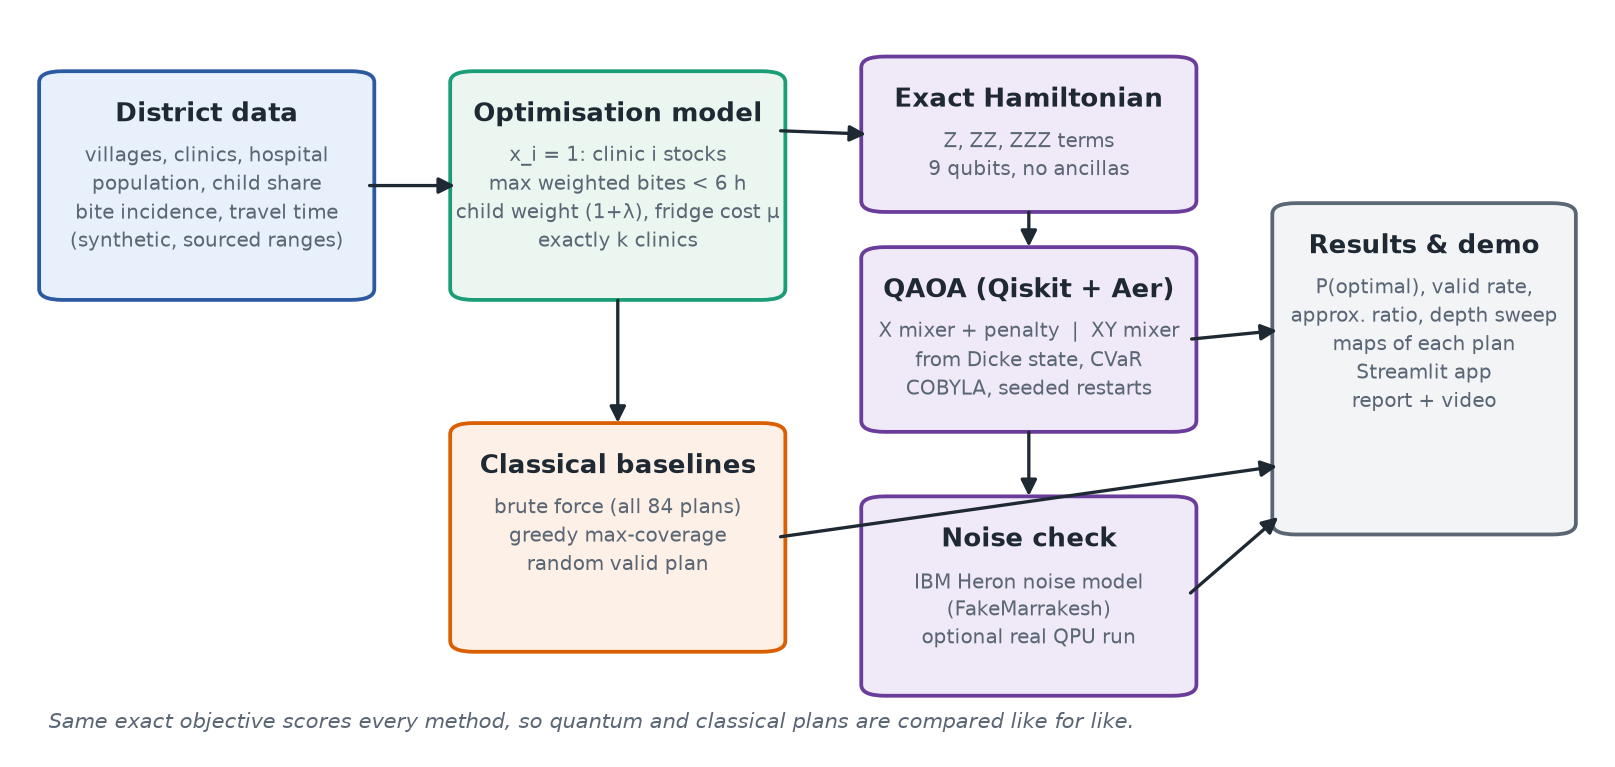
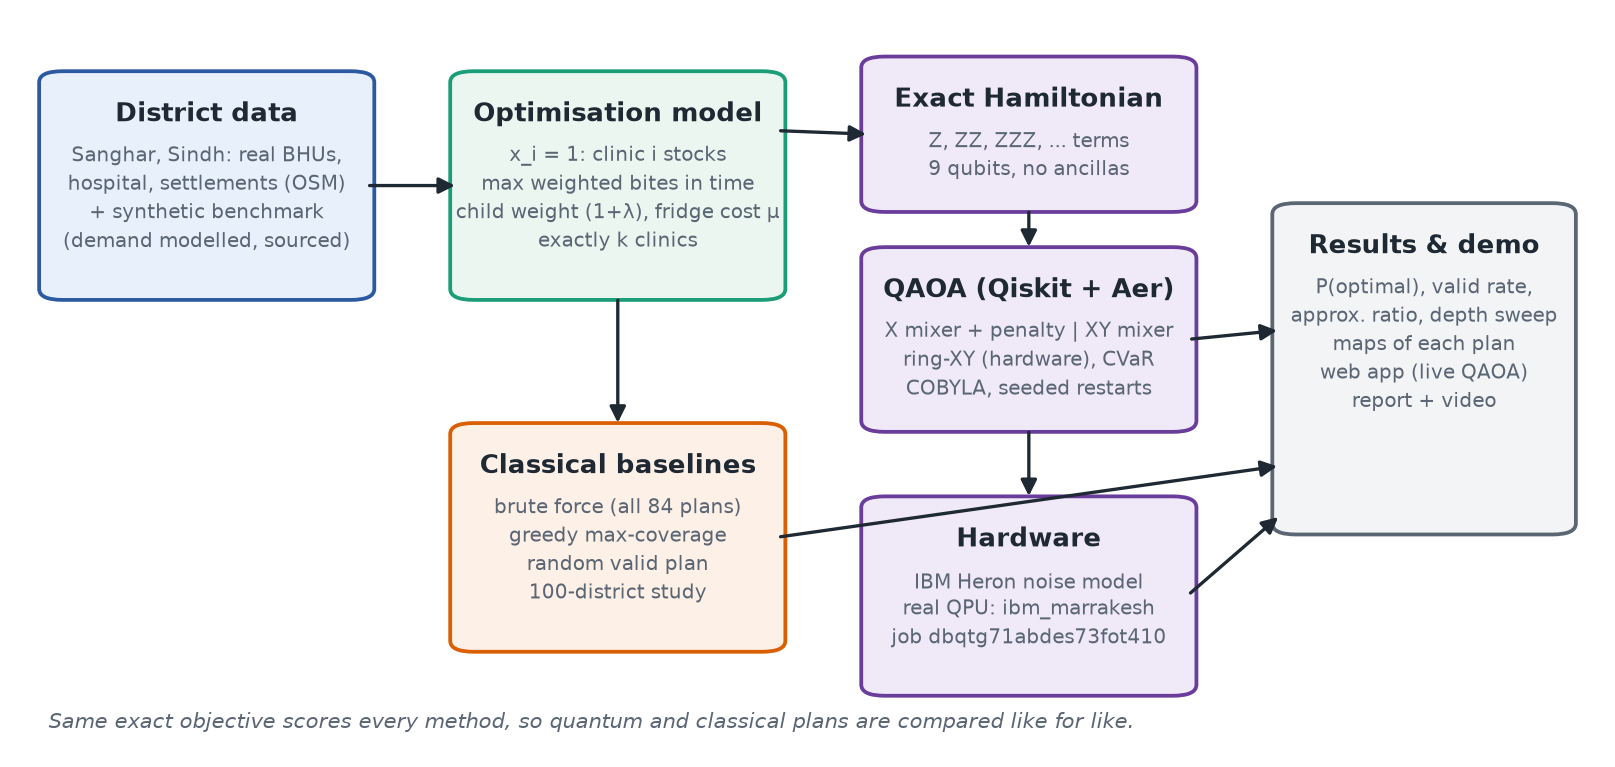
Docs: data sources for the real district, architecture diagram with real data and QPU

diff --git a/docs/make_architecture.py b/docs/make_architecture.py
@@ -9,13 +9,13 @@ FILL = {"data": "#e8f1fb", "model": "#eaf6ef", "quantum": "#efe9f8", "classical"
 EDGE = {"data": "#2c5aa0", "model": "#1b9e77", "quantum": "#6a3d9a", "classical": "#d95f02", "out": "#5b6675"}
 
 boxes = {
-    "data": (0.02, 0.62, 0.20, 0.30, "District data", "villages, clinics, hospital\npopulation, child share\nbite incidence, travel time\n(synthetic, sourced ranges)"),
-    "model": (0.28, 0.62, 0.20, 0.30, "Optimisation model", "x_i = 1: clinic i stocks\nmax weighted bites < 6 h\nchild weight (1+λ), fridge cost μ\nexactly k clinics"),
-    "ham": (0.54, 0.74, 0.20, 0.20, "Exact Hamiltonian", "Z, ZZ, ZZZ terms\n9 qubits, no ancillas"),
-    "qaoa": (0.54, 0.44, 0.20, 0.24, "QAOA (Qiskit + Aer)", "X mixer + penalty  |  XY mixer\nfrom Dicke state, CVaR\nCOBYLA, seeded restarts"),
-    "classical": (0.28, 0.14, 0.20, 0.30, "Classical baselines", "brute force (all 84 plans)\ngreedy max-coverage\nrandom valid plan"),
-    "noise": (0.54, 0.08, 0.20, 0.26, "Noise check", "IBM Heron noise model\n(FakeMarrakesh)\noptional real QPU run"),
-    "out": (0.80, 0.30, 0.18, 0.44, "Results & demo", "P(optimal), valid rate,\napprox. ratio, depth sweep\nmaps of each plan\nStreamlit app\nreport + video"),
+    "data": (0.02, 0.62, 0.20, 0.30, "District data", "Sanghar, Sindh: real BHUs,\nhospital, settlements (OSM)\n+ synthetic benchmark\n(demand modelled, sourced)"),
+    "model": (0.28, 0.62, 0.20, 0.30, "Optimisation model", "x_i = 1: clinic i stocks\nmax weighted bites in time\nchild weight (1+λ), fridge cost μ\nexactly k clinics"),
+    "ham": (0.54, 0.74, 0.20, 0.20, "Exact Hamiltonian", "Z, ZZ, ZZZ, ... terms\n9 qubits, no ancillas"),
+    "qaoa": (0.54, 0.44, 0.20, 0.24, "QAOA (Qiskit + Aer)", "X mixer + penalty | XY mixer\nring-XY (hardware), CVaR\nCOBYLA, seeded restarts"),
+    "classical": (0.28, 0.14, 0.20, 0.30, "Classical baselines", "brute force (all 84 plans)\ngreedy max-coverage\nrandom valid plan\n100-district study"),
+    "noise": (0.54, 0.08, 0.20, 0.26, "Hardware", "IBM Heron noise model\nreal QPU: ibm_marrakesh\njob dbqtg71abdes73fot410"),
+    "out": (0.80, 0.30, 0.18, 0.44, "Results & demo", "P(optimal), valid rate,\napprox. ratio, depth sweep\nmaps of each plan\nweb app (live QAOA)\nreport + video"),
 }
 kind = {"data": "data", "model": "model", "ham": "quantum", "qaoa": "quantum", "classical": "classical",
         "noise": "quantum", "out": "out"}

diff --git a/docs/data_sources.md b/docs/data_sources.md
@@ -1,9 +1,36 @@
-# Data sources and how the synthetic district is built
+# Data sources: what is real and what is modelled
 
-The district in this repo is **synthetic**. No village, clinic or person in it is real.
-Parameters are drawn from ranges reported in the sources below, so the scale is realistic.
-A health officer could replace `make_district()` with real clinic locations and travel times;
-the model and solvers would not change.
+This repository uses two kinds of district:
+
+1. **Sanghar, Sindh, Pakistan (real geography)** — `avr/sanghar.py`, `data/sanghar_osm.json`.
+2. **Synthetic benchmark districts** — `avr/instance.py` (seed 2026 = main benchmark,
+   seed 82 = hard case where greedy fails, seeds 0–99 = greedy statistics).
+
+The model and solvers are identical for both; only the input data changes.
+
+## Sanghar district (real geography)
+
+| Item | Real or modelled | Source / value |
+|---|---|---|
+| Locations and names of 15 government Basic Health Units | **Real** | OpenStreetMap, Overpass API extract, bbox 25.70–26.40 N, 68.70–69.50 E, fetched 12 Nov 2026 |
+| Location of the Civil Hospital, Sanghar (district hospital) | **Real** | OpenStreetMap (tagged "سول ہسپتال", Civil Hospital) |
+| Locations and names of 72 settlements (city, towns, villages, hamlets) | **Real** | OpenStreetMap `place=*` nodes |
+| Population of Sanghar city (75,410) and Khipro town (51,081) | **Real** | OpenStreetMap `population` tags |
+| Population of other settlements | Modelled | log-normal, median 1,500 (village) / 300 (hamlet); 20,000 for towns without a tag |
+| Envenoming incidence | Modelled | 100–350 per 100,000 per year (same range as below) |
+| Share of people under 15 | Modelled | 36–46% (Pakistan's population is ~35–40% under 15) |
+| Travel speed | Modelled | 15 km/h cart / qingqi (30%), 25 km/h motorbike (50%), 40 km/h car / ambulance (20%) |
+| Road detour factor | Modelled | 1.35 × straight-line distance |
+| Time window | Modelled | **1 hour** of travel (facilities are close together, so a 6-hour window would cover almost everyone) |
+| Which BHUs already have a fridge | Modelled | random, ~50% |
+| Candidate sites | Rule | all 15 BHUs; BHUs closer than 8 km are merged into one site (they serve overlapping villages) → 9 sites = 9 qubits. Private GP clinics and small dispensaries are excluded |
+
+Map data © OpenStreetMap contributors, available under the Open Database License (ODbL).
+
+## Synthetic benchmark districts
+
+No village, clinic or person in these is real. Parameters are drawn from the ranges below, so
+the scale is realistic.
 
 ## Burden (why the problem matters)
 

diff --git a/README.md b/README.md
@@ -11,7 +11,7 @@
 [![Python](https://img.shields.io/badge/Python-3.13-3776AB?logo=python&logoColor=white)](https://www.python.org/)
 [![Qiskit](https://img.shields.io/badge/Qiskit-2.6-6929C4?logo=qiskit&logoColor=white)](https://www.ibm.com/quantum/qiskit)
 [![Qiskit Aer](https://img.shields.io/badge/Qiskit%20Aer-0.18-6929C4)](https://github.com/Qiskit/qiskit-aer)
-[![Ran on IBM Quantum](https://img.shields.io/badge/ran%20on-ibm__marrakesh%20(156q%20Heron)-052FAD?logo=ibm&logoColor=white)](#3-real-ibm-quantum-computer)
+[![Ran on IBM Quantum](https://img.shields.io/badge/ran%20on-ibm__marrakesh%20%28156q%20Heron%29-052FAD?logo=ibm&logoColor=white)](#3-real-ibm-quantum-computer)
 [![Qubits](https://img.shields.io/badge/qubits-9-0f766e)](#formulation)
 [![Self-checks](https://img.shields.io/badge/self--checks-5%2F5%20passing-2ea44f)](check_model.py)
 <br>
